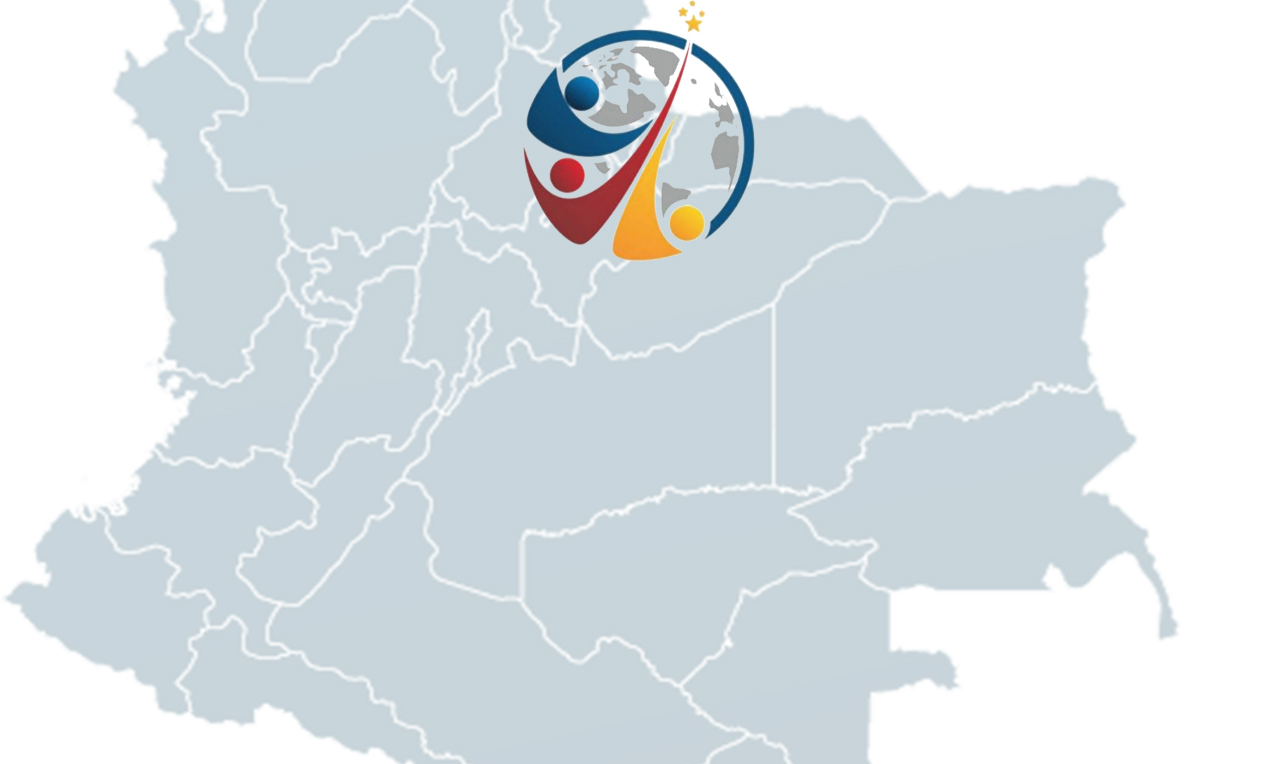
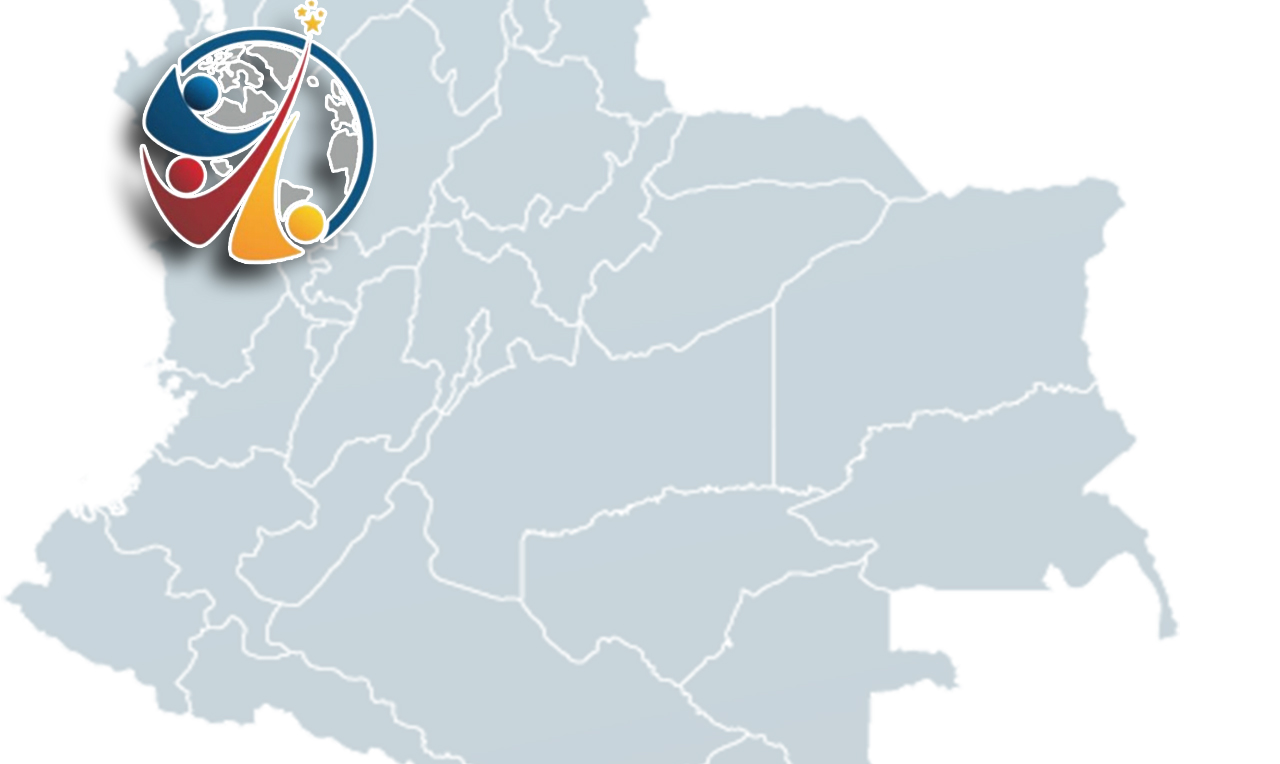
Themes listo

Changed region(s): [[0.0938, 0.0, 0.3125, 0.3914], [0.4062, 0.0, 0.5938, 0.3613]]

diff --git a/src/app/components/login/login.component.html b/src/app/components/login/login.component.html
@@ -8,15 +8,13 @@
         Ingresos al Sistema
       </p-header>
       <div class="p-field">
-        <!-- <label for="firstname1">Usuario</label> -->
-        <input id="firstname1" type="text" pInputText placeholder="Usuario">
+        <input id="firstname1" type="text" pInputText  class="p-inputtext-sm" placeholder="Usuario">
       </div>
       <div >
-        <!-- <label for="lastname1">Contraseña</label> -->
-        <input id="lastname1" type="text" pInputText placeholder="Contraseña">
+        <input id="lastname1" type="text" pInputText  class="p-inputtext-sm p-mb-1" placeholder="Contraseña">
       </div>
       <p-footer>
-        <button  pButton type="button" class="p-button-raised p-button-primary" label="Aceptar" ></button>
+        <button  pButton type="button" class="p-button-raised p-button-primary p-mr-1" label="Aceptar" ></button>
         <button pButton type="button" class="p-button-raised  p-button-danger"  label="Cancelar" ></button>
       </p-footer>
     <!-- </p-card> -->

diff --git a/src/app/shared/components/primeng-conponents.module.ts b/src/app/shared/components/primeng-conponents.module.ts
@@ -3,11 +3,21 @@ import { CommonModule } from '@angular/common';
 import { InputTextModule } from 'primeng/inputtext';
 import { CardModule } from 'primeng/card';
 import { ButtonModule } from 'primeng/button';
-
+import { MenubarModule } from 'primeng/menubar';
+import { MenuItem } from 'primeng/api';
 
 @NgModule({
   declarations: [],
-  imports: [InputTextModule,  CardModule, ButtonModule],
-  exports: [InputTextModule,  CardModule, ButtonModule],
+  imports: [
+    InputTextModule,
+    CardModule,
+    ButtonModule,
+    MenubarModule],
+  exports: [
+    InputTextModule,
+    CardModule,
+    ButtonModule,
+    MenubarModule
+  ],
 })
 export class PrimengConponentsModule { }

diff --git a/src/app/components/login/login.component.scss b/src/app/components/login/login.component.scss
@@ -11,7 +11,7 @@
   font-weight: bold;
 }
 #logo {
-  height: 100px;
+  height: 80px;
 }
 
 #main {
